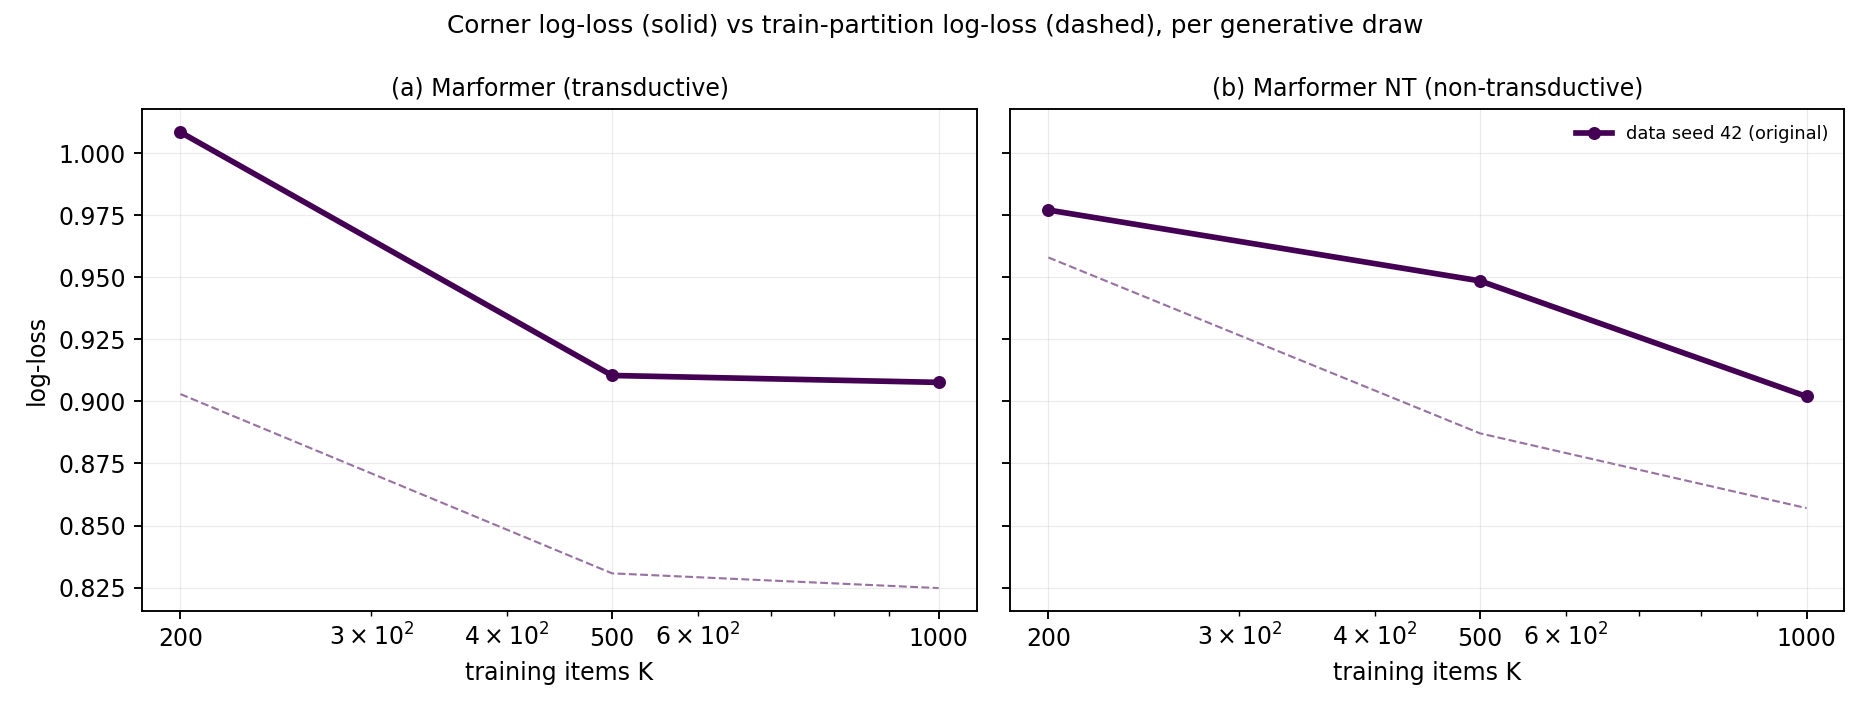
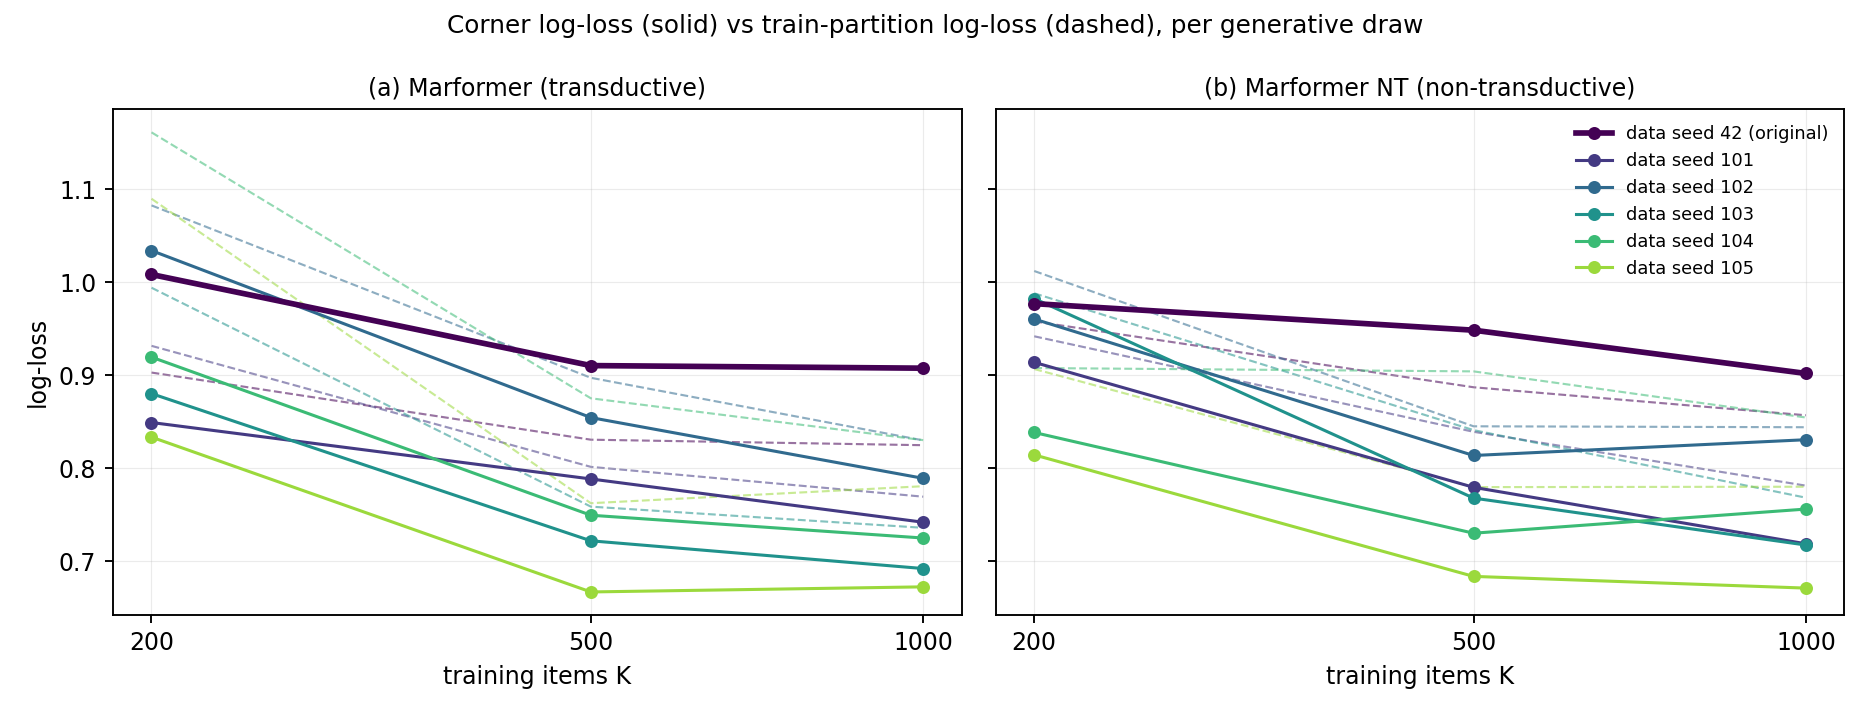
D28: the train-vs-corner gap does not survive a redraw of the data
Six generative seeds. Seed 42 is the only one with a positive train-vs-corner
gap, in all six (arm, K) cells, at z = +2.0 to +3.8 against the five fresh
draws. On a fresh draw the corner is easier than the training partition's own
held-out cells.

Label difficulty, context density and corner size are all ruled out as
mechanisms. What remains is the realised difficulty of ~400 specific cells:
corner log-loss spans 0.67-0.91 across draws at fixed K and arm, with ~2x the
across-draw spread of the training-cell loss on the same checkpoints.

Claude-Session: https://claude.ai/code/session_015rPjAKerPBipWcou9ETmBj

diff --git a/RERUN/dataseed/corner_difficulty.py b/RERUN/dataseed/corner_difficulty.py
@@ -1,0 +1,86 @@
+#!/usr/bin/env python
+"""
+Model-free test of the train-vs-corner gap.
+
+If the gap is Marformer failing to generalise, it should not appear in a
+predictor that does no generalisation at all. If it IS the draw -- if seed 42
+simply dealt a harder 414 cells -- then even a marginal-frequency predictor,
+fitted on the training partition and scored on both regions, shows the same
+sign.
+
+Three predictors, increasing in strength, none of which can transfer anything
+item-specific to an unseen item:
+  unigram      P(c) over all observed training labels
+  by-attr      P(c | attribute)
+  by-annot-attr P(c | annotator, attribute)      <- the strongest thing a model
+                                                    can know about a corner cell
+                                                    without knowing the item
+All are fitted on OBSERVED TRAINING cells only and scored on the missing cells
+of each region, with add-one smoothing.
+"""
+from __future__ import annotations
+import argparse, json, math
+from collections import defaultdict
+from pathlib import Path
+
+C = 4
+
+def load(p: Path):
+    b = json.loads(p.read_text())
+    md = b["domain3_metadata"]
+    ti = set(md["test_block_item_orig_ids"]); ta = set(md["test_block_annotator_orig_ids"])
+    i2o = {k + 1: v for k, v in enumerate(md["selected_item_orig_ids"])}
+    a2o = {k + 1: v for k, v in enumerate(md["selected_annotator_orig_ids"])}
+    def tag(r):
+        return "corner" if (i2o[r["item"]] in ti and a2o[r["annotator"]] in ta) else "train"
+    return b, tag
+
+def fit(rows, keyf):
+    tab = defaultdict(lambda: [1.0] * C)          # add-one
+    for r in rows:
+        tab[keyf(r)][r["value"] - 1] += 1.0
+    return {k: [x / sum(v) for x in v] for k, v in tab.items()}
+
+def score(tab, rows, keyf):
+    tot, n = 0.0, 0
+    unif = [1.0 / C] * C
+    for r in rows:
+        p = tab.get(keyf(r), unif)
+        tot += -math.log(max(p[r["value"] - 1], 1e-12)); n += 1
+    return (tot / n if n else float("nan")), n
+
+PREDICTORS = {
+    "unigram":       lambda r: 0,
+    "by-attr":       lambda r: r["attribute"],
+    "by-annot-attr": lambda r: (r["annotator"], r["attribute"]),
+}
+
+def main():
+    ap = argparse.ArgumentParser()
+    ap.add_argument("--seeds", default="42,101,102,103,104,105")
+    ap.add_argument("--runs-root", default="runs")
+    ap.add_argument("--split", default="ItemSplits/Transductive/DOMAIN3-SIGMOID_Item_T_1000")
+    ap.add_argument("-o", "--out", default="dataseed/out/corner_difficulty.json")
+    a = ap.parse_args()
+    out = []
+    for name, keyf in PREDICTORS.items():
+        print(f"\n=== {name} (fitted on observed training cells) ===")
+        print(f"{'seed':>6}{'n_corner':>10}{'n_train':>9}{'corner':>9}{'train':>9}{'gap':>9}")
+        for s in [x for x in a.seeds.split(",") if x]:
+            p = Path(a.runs_root) / f"dataseed-s{s}" / "DATA/STAN/DOMAIN3-SIGMOID" / a.split / "data_bundle.json"
+            if not p.is_file(): continue
+            b, tag = load(p)
+            train_obs = [r for r in b["observed_ratings"] if tag(r) == "train"]
+            tab = fit(train_obs, keyf)
+            miss = b["missing_ratings"]
+            lc, nc = score(tab, [r for r in miss if tag(r) == "corner"], keyf)
+            lt, nt = score(tab, [r for r in miss if tag(r) == "train"], keyf)
+            print(f"{s:>6}{nc:>10}{nt:>9}{lc:>9.4f}{lt:>9.4f}{lc-lt:>+9.4f}")
+            out.append({"predictor": name, "seed": int(s), "n_corner": nc,
+                        "n_train": nt, "corner": lc, "train": lt, "gap": lc - lt})
+    Path(a.out).parent.mkdir(parents=True, exist_ok=True)
+    Path(a.out).write_text(json.dumps(out, indent=2))
+    print(f"\n-> {a.out}")
+
+if __name__ == "__main__":
+    main()

diff --git a/RERUN/dataseed/oracle_gap.py b/RERUN/dataseed/oracle_gap.py
@@ -1,0 +1,56 @@
+#!/usr/bin/env python
+"""
+Is a corner "hard" because the model generalises badly, or because the cells
+themselves are intrinsically harder to predict?
+
+The generator writes rating_cumprobs -- the TRUE categorical distribution it
+sampled each rating from. Its cross-entropy against the realised label is the
+Bayes-optimal log-loss: no estimator, Marformer or Stan, can beat it. Computing
+it separately on the corner and on the training cells gives the floor of the
+train-vs-corner gap that is pure draw, before any model is involved.
+"""
+from __future__ import annotations
+import argparse, json, math
+from pathlib import Path
+from collections import defaultdict
+
+def oracle(bundle_path: Path):
+    b = json.loads(bundle_path.read_text())
+    md = b["domain3_metadata"]
+    ti = set(md["test_block_item_orig_ids"]); ta = set(md["test_block_annotator_orig_ids"])
+    i2o = {k + 1: v for k, v in enumerate(md["selected_item_orig_ids"])}
+    a2o = {k + 1: v for k, v in enumerate(md["selected_annotator_orig_ids"])}
+    out = defaultdict(lambda: [0.0, 0])
+    counts = defaultdict(int)
+    for part, key in (("missing", "missing_ratings"), ("observed", "observed_ratings")):
+        for r in b.get(key, []):
+            p = r.get("rating_dist")
+            in_corner = i2o[r["item"]] in ti and a2o[r["annotator"]] in ta
+            zone = "corner" if in_corner else "outside"
+            counts[(zone, part)] += 1
+            if part != "missing" or p is None:
+                continue
+            q = p[r["value"] - 1]
+            out[zone][0] += -math.log(max(q, 1e-12)); out[zone][1] += 1
+    return {k: (v[0] / v[1] if v[1] else float("nan"), v[1]) for k, v in out.items()}, dict(counts)
+
+def main():
+    ap = argparse.ArgumentParser()
+    ap.add_argument("--seeds", default="42,101,102,103,104,105")
+    ap.add_argument("--runs-root", default="runs")
+    ap.add_argument("--split", default="ItemSplits/Transductive/DOMAIN3-SIGMOID_Item_T_1000")
+    a = ap.parse_args()
+    print(f"{'seed':>6}{'corner_miss':>13}{'corner_obs':>12}{'miss_rate':>11}"
+          f"{'oracle_corner':>15}{'oracle_outside':>16}{'oracle_gap':>12}")
+    for s in [x for x in a.seeds.split(",") if x]:
+        p = Path(a.runs_root) / f"dataseed-s{s}" / "DATA/STAN/DOMAIN3-SIGMOID" / a.split / "data_bundle.json"
+        if not p.is_file():
+            print(f"{s:>6}  missing {p}"); continue
+        o, c = oracle(p)
+        cm, co = c[("corner", "missing")], c[("corner", "observed")]
+        oc = o["corner"][0]; oo = o["outside"][0]
+        print(f"{s:>6}{cm:>13}{co:>12}{cm/(cm+co):>11.3f}"
+              f"{oc:>15.4f}{oo:>16.4f}{oc-oo:>+12.4f}")
+
+if __name__ == "__main__":
+    main()

diff --git a/RERUN/dataseed/analyse.py b/RERUN/dataseed/analyse.py
@@ -103,6 +103,7 @@ def main():
                     color=cols[s], lw=0.9, alpha=0.55, zorder=1)
         ax.set_xscale("log"); ax.set_xticks(sizes)
         ax.set_xticklabels([str(x) for x in sizes])
+        ax.minorticks_off()
         ax.set_xlabel("training items K"); ax.set_title(title, fontsize=10)
         ax.grid(alpha=0.25, lw=0.5)
     axes[0].set_ylabel("log-loss")

diff --git a/RERUN/DISCREPANCIES.md b/RERUN/DISCREPANCIES.md
@@ -731,3 +731,59 @@ landing in a chunk that contains no training items at all.
   bootstrap CI over cells rather than a seed sd, or average several independent
   corner draws per size. Any of the three; the current figure has no honest
   error bar because the seed sd understates the real uncertainty.
+
+---
+
+## D28 — the train-vs-corner gap is a property of base seed 42, not of the model
+
+**Status:** measured, 2026-09-02. Supersedes the "chunking plus sampling noise"
+reading in D27, which was right that the gap is not a bug but wrong about how
+much of it survives a redraw: none of it does.
+
+Domain 3 was regenerated from the Stan generator under six base seeds
+(42, 101–105), each into its own tree under `RERUN/runs/dataseed-s<N>/`. Seed 42
+reproduces the original bundles byte-for-byte, so the harness is deterministic
+and the five fresh draws differ only in the draw. Item axis, K ∈ {200, 500,
+1000}, both arms, everything else held at the Figure 6 values (chunk 300, no
+shuffle, 400 epochs, model seed 42, last checkpoint, corner-whole evaluation).
+
+Train-minus-corner gap, T arm:
+
+| K | s42 | s101 | s102 | s103 | s104 | s105 |
+|---|---|---|---|---|---|---|
+| 200 | **+0.106** | −0.083 | −0.049 | −0.114 | −0.242 | −0.257 |
+| 500 | **+0.080** | −0.013 | −0.043 | −0.037 | −0.126 | −0.096 |
+| 1000 | **+0.083** | −0.028 | −0.041 | −0.044 | −0.105 | −0.108 |
+
+Seed 42 is the only draw with a positive gap, in all six (arm, K) cells, at
+z = +2.0 to +3.8 against the five fresh draws. On a fresh draw the corner is
+*easier* than the training partition's own held-out cells.
+
+Three candidate mechanisms were checked and all are ruled out:
+
+- **Label difficulty.** Marginal predictors fitted on observed training cells
+  (unigram, P(c|attribute), P(c|annotator,attribute)) score the corner and the
+  training region within ±0.05 of each other on every seed, with no seed-42
+  outlier (`dataseed/corner_difficulty.py`).
+- **Context density.** Observed cells per scored item are 5.1–6.1 in both
+  regions on every seed. Seed 42's corner sits mid-pack at 5.45; seed 102 has
+  less corner context (5.15) and a negative gap.
+- **Corner size.** Seed 42's corner holds 414 missing cells, the largest of the
+  six (316–414) — more cells means less sampling noise, not more.
+
+What does vary is the realised difficulty of the ~400 specific cells. Across
+draws the corner log-loss spans 0.67–0.91 at fixed K, arm and protocol, with a
+standard deviation **~2x** that of the training-cell log-loss measured on the
+same checkpoints (0.085 vs 0.039 at K=1000). The corner is a 414-cell
+measurement and behaves like one.
+
+**Consequence for the paper.** Any claim that rests on the size or sign of the
+train-vs-corner difference at base seed 42 — including the reading that
+Marformer generalises worse to unseen items than it fits seen ones — is not
+supported. The corner-scored curve itself is fine; its *error bar across
+generative draws* is roughly ±0.09, which is larger than most of the differences
+Figure 6 is currently read as showing. Reported Domain 3 numbers should average
+over generative draws, not just over model seeds.
+
+Harness: `RERUN/dataseed/` (`submit_gen.sh`, `submit_train.sh`, `jobs/eval.sbatch`,
+`analyse.py`, `corner_difficulty.py`). Figure: `dataseed/out/dataseed_fig6.png`.
